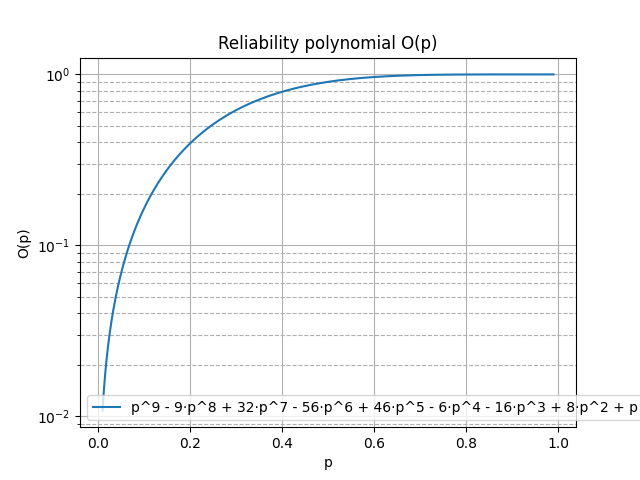
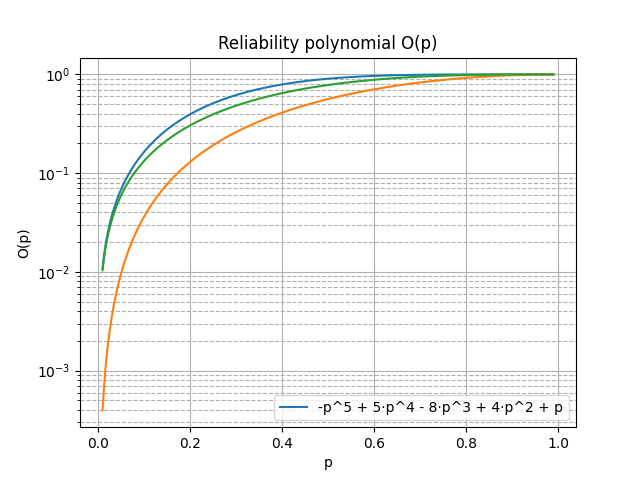
added multiple graph definition, WIP on graph drawing

diff --git a/main.py b/main.py
@@ -93,55 +93,6 @@ def find_all_minimum_cuts(graph, source, target, capacity_key):
     return all_minimum_cuts
 
 
-# CREATE THE GRAPH
-G = nx.MultiDiGraph(directed=True)
-
-# Nodes 
-G.add_node(1, subset='source')
-G.add_node(8, subset='target')
-s_node = 1 # source node
-t_node = 8 # target node
-
-G.add_node(2, subset='others')
-G.add_node(3, subset='others')
-G.add_node(4, subset='others')
-G.add_node(5, subset='others')
-G.add_node(6, subset='others')
-G.add_node(7, subset='others')
-
-# Edges 
-# G.add_edges_from([(1, 2, 0, {'capacity': "e1"}), (1, 2, 1, {'capacity': "e2"}), (2, 3, 0, {'capacity': "e3"}), (2, 3, 1, {'capacity': "e4"})])
-# G.add_edges_from([(1, 2, 0, {'capacity': "e1"}), (2, 3, 0, {'capacity': "e2"}), (2, 3, 1, {'capacity': "e3"})])
-# G.add_edges_from([(1, 2, 0, {'capacity': "e1"}), (2, 3, 0, {'capacity': "e2"})])
-# G.add_edges_from([(1, 2, 0, {'capacity': "e1"}), (2, 3, 0, {'capacity': "e5"}), (1, 4, 0, {'capacity': "e2"}), (4, 5, 0, {'capacity': "e3"}), (2, 5, 0, {'capacity': "e4"}), (5, 3, 0, {'capacity': "e6"})])
-# G.add_edges_from([(1, 2, 0, {'capacity': "a"}), (2, 3, 0, {'capacity': "b"}), (1, 3, 0, {'capacity': "c"}), (1, 4, 0, {'capacity': "d"}), (4, 3, 0, {'capacity': "f"})])
-# G.add_edges_from([(2, 1, 0, {'capacity': "a"}), (1, 3, 0, {'capacity': "b"}), (2, 4, 0, {'capacity': "c"}), (4, 3, 0, {'capacity': "d"}), (1, 4, 0, {'capacity': "f"})])
-G.add_edges_from([(1, 2, 0, {'capacity': "e1"}), (1, 3, 0, {'capacity': "e2"}), (2, 4, 0, {'capacity': "e3"}), (3, 4, 0, {'capacity': "e4"})])
-G.add_edges_from([(4, 5, 0, {'capacity': "e5"}), (5, 6, 0, {'capacity': "e6"}), (5, 7, 0, {'capacity': "e7"}), (6, 8, 0, {'capacity': "e8"}), (7, 8, 0, {'capacity': "e9"})])
-
-
-G1 = nx.MultiDiGraph(directed=True)
-
-# Nodes 
-G1.add_node(1, subset='source')
-G1.add_node(4, subset='target')
-s_node1 = 1 # source node
-t_node1 = 4 # target node
-
-G1.add_node(2, subset='others')
-G1.add_node(3, subset='others')
-
-# Edges 
-# G.add_edges_from([(1, 2, 0, {'capacity': "e1"}), (1, 2, 1, {'capacity': "e2"}), (2, 3, 0, {'capacity': "e3"}), (2, 3, 1, {'capacity': "e4"})])
-# G.add_edges_from([(1, 2, 0, {'capacity': "e1"}), (2, 3, 0, {'capacity': "e2"}), (2, 3, 1, {'capacity': "e3"})])
-# G.add_edges_from([(1, 2, 0, {'capacity': "e1"}), (2, 3, 0, {'capacity': "e2"})])
-# G.add_edges_from([(1, 2, 0, {'capacity': "e1"}), (2, 3, 0, {'capacity': "e5"}), (1, 4, 0, {'capacity': "e2"}), (4, 5, 0, {'capacity': "e3"}), (2, 5, 0, {'capacity': "e4"}), (5, 3, 0, {'capacity': "e6"})])
-# G.add_edges_from([(1, 2, 0, {'capacity': "a"}), (2, 3, 0, {'capacity': "b"}), (1, 3, 0, {'capacity': "c"}), (1, 4, 0, {'capacity': "d"}), (4, 3, 0, {'capacity': "f"})])
-# G.add_edges_from([(2, 1, 0, {'capacity': "a"}), (1, 3, 0, {'capacity': "b"}), (2, 4, 0, {'capacity': "c"}), (4, 3, 0, {'capacity': "d"}), (1, 4, 0, {'capacity': "f"})])
-G1.add_edges_from([(1, 2, 0, {'capacity': "e1"}), (1, 3, 0, {'capacity': "e2"}), (2, 4, 0, {'capacity': "e3"}), (3, 4, 0, {'capacity': "e4"})])
-G1.add_edges_from([(4, 5, 0, {'capacity': "e5"}), (5, 6, 0, {'capacity': "e6"}), (5, 7, 0, {'capacity': "e7"}), (6, 8, 0, {'capacity': "e8"}), (7, 8, 0, {'capacity': "e9"})])
-
-
 
 
 
@@ -221,11 +172,84 @@ def get_polynomial_expression(coefs, minimum_cut_size, number_of_edges) :
         # print(i)
     string_expanded_polynomial = ((str(sympy.expand(polynomial)).replace('x', 'p')).replace('**', '^')).replace('*', '·')
     return string_expanded_polynomial
+def multiply_two_lists(list1, list2) :
+    # Multiplying two lists
+    # of same length
+    res_list = []
+    for i in range(0, len(list1)):
+        res_list.append(list1[i] * list2[i])
+    return res_list
+    
+        
+# CREATE THE GRAPH
+G = nx.MultiDiGraph(directed=True)
 
+# Nodes 
+G.add_node(1, subset='source')
+G.add_node(8, subset='target')
+s_node = 1 # source node
+t_node = 8 # target node
+
+G.add_node(2, subset='others')
+G.add_node(3, subset='others')
+G.add_node(4, subset='others')
+G.add_node(5, subset='others')
+G.add_node(6, subset='others')
+G.add_node(7, subset='others')
+
+# Edges 
+# G.add_edges_from([(1, 2, 0, {'capacity': "e1"}), (1, 2, 1, {'capacity': "e2"}), (2, 3, 0, {'capacity': "e3"}), (2, 3, 1, {'capacity': "e4"})])
+# G.add_edges_from([(1, 2, 0, {'capacity': "e1"}), (2, 3, 0, {'capacity': "e2"}), (2, 3, 1, {'capacity': "e3"})])
+# G.add_edges_from([(1, 2, 0, {'capacity': "e1"}), (2, 3, 0, {'capacity': "e2"})])
+# G.add_edges_from([(1, 2, 0, {'capacity': "e1"}), (2, 3, 0, {'capacity': "e5"}), (1, 4, 0, {'capacity': "e2"}), (4, 5, 0, {'capacity': "e3"}), (2, 5, 0, {'capacity': "e4"}), (5, 3, 0, {'capacity': "e6"})])
+# G.add_edges_from([(1, 2, 0, {'capacity': "a"}), (2, 3, 0, {'capacity': "b"}), (1, 3, 0, {'capacity': "c"}), (1, 4, 0, {'capacity': "d"}), (4, 3, 0, {'capacity': "f"})])
+# G.add_edges_from([(2, 1, 0, {'capacity': "a"}), (1, 3, 0, {'capacity': "b"}), (2, 4, 0, {'capacity': "c"}), (4, 3, 0, {'capacity': "d"}), (1, 4, 0, {'capacity': "f"})])
+G.add_edges_from([(1, 2, 0, {'capacity': "e1"}), (1, 3, 0, {'capacity': "e2"}), (2, 4, 0, {'capacity': "e3"}), (3, 4, 0, {'capacity': "e4"})])
+G.add_edges_from([(4, 5, 0, {'capacity': "e5"}), (5, 6, 0, {'capacity': "e6"}), (5, 7, 0, {'capacity': "e7"}), (6, 8, 0, {'capacity': "e8"}), (7, 8, 0, {'capacity': "e9"})])
+
+
+G1 = nx.MultiDiGraph(directed=True)
+# Nodes 
+G1.add_node(1, subset='source')
+G1.add_node(4, subset='target')
+s_node1 = 1 # source node
+t_node1 = 4 # target node
+G1.add_node(2, subset='others')
+G1.add_node(3, subset='others')
+# Edges 
+# G.add_edges_from([(1, 2, 0, {'capacity': "e1"}), (1, 2, 1, {'capacity': "e2"}), (2, 3, 0, {'capacity': "e3"}), (2, 3, 1, {'capacity': "e4"})])
+# G.add_edges_from([(1, 2, 0, {'capacity': "e1"}), (2, 3, 0, {'capacity': "e2"}), (2, 3, 1, {'capacity': "e3"})])
+# G.add_edges_from([(1, 2, 0, {'capacity': "e1"}), (2, 3, 0, {'capacity': "e2"})])
+# G.add_edges_from([(1, 2, 0, {'capacity': "e1"}), (2, 3, 0, {'capacity': "e5"}), (1, 4, 0, {'capacity': "e2"}), (4, 5, 0, {'capacity': "e3"}), (2, 5, 0, {'capacity': "e4"}), (5, 3, 0, {'capacity': "e6"})])
+# G.add_edges_from([(1, 2, 0, {'capacity': "a"}), (2, 3, 0, {'capacity': "b"}), (1, 3, 0, {'capacity': "c"}), (1, 4, 0, {'capacity': "d"}), (4, 3, 0, {'capacity': "f"})])
+# G.add_edges_from([(2, 1, 0, {'capacity': "a"}), (1, 3, 0, {'capacity': "b"}), (2, 4, 0, {'capacity': "c"}), (4, 3, 0, {'capacity': "d"}), (1, 4, 0, {'capacity': "f"})])
+G1.add_edges_from([(1, 2, 0, {'capacity': "e1"}), (1, 3, 0, {'capacity': "e2"}), (2, 4, 0, {'capacity': "e3"}), (3, 4, 0, {'capacity': "e4"})])
+# G1.add_edges_from([(4, 5, 0, {'capacity': "e5"}), (5, 6, 0, {'capacity': "e6"}), (5, 7, 0, {'capacity': "e7"}), (6, 8, 0, {'capacity': "e8"}), (7, 8, 0, {'capacity': "e9"})])
+
+
+G2 = nx.MultiDiGraph(directed=True)
+# Nodes 
+G2.add_node(4, subset='source')
+G2.add_node(8, subset='target')
+s_node2 = 4 # source node
+t_node2 = 8 # target node
+G2.add_node(5, subset='others')
+G2.add_node(6, subset='others')
+G2.add_node(7, subset='others')
+# Edges 
+# G.add_edges_from([(1, 2, 0, {'capacity': "e1"}), (1, 2, 1, {'capacity': "e2"}), (2, 3, 0, {'capacity': "e3"}), (2, 3, 1, {'capacity': "e4"})])
+# G.add_edges_from([(1, 2, 0, {'capacity': "e1"}), (2, 3, 0, {'capacity': "e2"}), (2, 3, 1, {'capacity': "e3"})])
+# G.add_edges_from([(1, 2, 0, {'capacity': "e1"}), (2, 3, 0, {'capacity': "e2"})])
+# G.add_edges_from([(1, 2, 0, {'capacity': "e1"}), (2, 3, 0, {'capacity': "e5"}), (1, 4, 0, {'capacity': "e2"}), (4, 5, 0, {'capacity': "e3"}), (2, 5, 0, {'capacity': "e4"}), (5, 3, 0, {'capacity': "e6"})])
+# G.add_edges_from([(1, 2, 0, {'capacity': "a"}), (2, 3, 0, {'capacity': "b"}), (1, 3, 0, {'capacity': "c"}), (1, 4, 0, {'capacity': "d"}), (4, 3, 0, {'capacity': "f"})])
+# G.add_edges_from([(2, 1, 0, {'capacity': "a"}), (1, 3, 0, {'capacity': "b"}), (2, 4, 0, {'capacity': "c"}), (4, 3, 0, {'capacity': "d"}), (1, 4, 0, {'capacity': "f"})])
+# G2.add_edges_from([(1, 2, 0, {'capacity': "e1"}), (1, 3, 0, {'capacity': "e2"}), (2, 4, 0, {'capacity': "e3"}), (3, 4, 0, {'capacity': "e4"})])
+G2.add_edges_from([(4, 5, 0, {'capacity': "e5"}), (5, 6, 0, {'capacity': "e6"}), (5, 7, 0, {'capacity': "e7"}), (6, 8, 0, {'capacity': "e8"}), (7, 8, 0, {'capacity': "e9"})])
+
+#### GRAPH 0
 ### CALL TO CUSTOM FLOW COMPUTING FUNCTION
 # Find all minimum edge cuts in the graph
 all_min_cuts = find_all_minimum_cuts(G, source=s_node, target=t_node, capacity_key='capacity')
-all_min_cuts1 = find_all_minimum_cuts(G1, source=s_node1, target=t_node1, capacity_key='capacity')
 
 ### EVALUATING K, L, AND M (collection of cut-sets, minimal cut-sets and minimum cut-sets)
 K, L, M = get_collection(all_min_cuts)
@@ -237,63 +261,93 @@ p = numpy.linspace(0.01, 0.99, num=1000)
 O_p, UpperB = OutagePolynomial.eval(p, minimum_cut_size, number_of_edges, coefs)
 OutagePolynomial.plot(p, O_p, UpperB, string_expanded_polynomial)
 
+#### GRAPH 1
+# Find all minimum edge cuts in the graph
+all_min_cuts1 = find_all_minimum_cuts(G1, source=s_node1, target=t_node1, capacity_key='capacity')
+
+### EVALUATING K, L, AND M (collection of cut-sets, minimal cut-sets and minimum cut-sets)
+K1, L1, M1 = get_collection(all_min_cuts1)
+display_collection("G1", K1, L1, M1)
+number_of_edges1, minimum_cut_size1 = get_n_m_values(G1, M1)
+coefs1 = find_coefs(K1)
+string_expanded_polynomial1 = get_polynomial_expression(coefs1, minimum_cut_size1, number_of_edges1)
+p1 = numpy.linspace(0.01, 0.99, num=1000)
+O_p1, UpperB1 = OutagePolynomial.eval(p1, minimum_cut_size1, number_of_edges1, coefs1)
+OutagePolynomial.plot(p1, O_p1, UpperB1, string_expanded_polynomial1)
+
+
+#### GRAPH 2
+# Find all minimum edge cuts in the graph
+all_min_cuts2 = find_all_minimum_cuts(G2, source=s_node2, target=t_node2, capacity_key='capacity')
+
+### EVALUATING K, L, AND M (collection of cut-sets, minimal cut-sets and minimum cut-sets)
+K2, L2, M2 = get_collection(all_min_cuts2)
+display_collection("G2", K2, L2, M2)
+number_of_edges2, minimum_cut_size2 = get_n_m_values(G2, M2)
+coefs2 = find_coefs(K2)
+string_expanded_polynomial2 = get_polynomial_expression(coefs2, minimum_cut_size2, number_of_edges2)
+p2 = numpy.linspace(0.01, 0.99, num=1000)
+O_p2, UpperB2 = OutagePolynomial.eval(p2, minimum_cut_size2, number_of_edges2, coefs2)
+OutagePolynomial.plot(p2, O_p2, UpperB2, string_expanded_polynomial2)
+
+
 ##################################################
 
 
 ######################################################### DRAWING THE GRAPH ################################################
 
-
-# Draw and save the graph
-plt.figure(figsize=(8, 6))  # Adjust the figure size as per your preference
- 
-# pos = nx.multipartite_layout(G, subset_key='subset', align='horizontal')  # Use multipartite_layout for automatic separation of parallel edges
-# offset = 0.05  # Adjust this value to control the separation of parallel edges
-pos = nx.planar_layout(G)
-
-# # Get the edge labels
-# edge_labels = {(u, v, key): G[u][v][key]['capacity'] for u, v, key in G.edges(keys=True)}
-
-# Draw edge labels
-
-# for u, v, key in G.edges(keys=True):
-#     x1, y1 = pos[u]
-#     x2, y2 = pos[v]
-#     capacity = G[u][v][key]['capacity']
-#     plt.text((x1 + x2) / 2, (y1 + y2) / 2, f"{capacity}", horizontalalignment='center', verticalalignment='center', fontsize=10)
-
-#     x_arr, y_arr = x2, y2
-#     plt.arrow(x1, y1, x_arr - x1, y_arr - y1, color='black', width=0.005, head_width=0.03, head_length=0.03)  # Adjust the width parameter
-
-# Draw nodes
-nx.draw_networkx_nodes(G, pos, node_color='c', node_size=100, alpha=1)
-
-# Draw edges as separate curves
-for u, v, key in G.edges(keys=True):
-    connection_style = "arc3,rad=" + str(0.3 * key)
-    plt.annotate("",
-                 xy=pos[u], xycoords='data',  # Source node
-                 xytext=pos[v], textcoords='data',  # Target node
-                 arrowprops=dict(arrowstyle="->", color="0.5",
-                                 shrinkA=5, shrinkB=5,
-                                 patchA=None, patchB=None,
-                                 connectionstyle=connection_style),
-                 )
-
+def draw_graph(G) :
+    # Draw and save the graph
+    plt.figure(figsize=(8, 6))  # Adjust the figure size as per your preference
     
-# # Draw nodes and labels
-# nx.draw(G, pos, with_labels=True, font_weight='bold')
+    # pos = nx.multipartite_layout(G, subset_key='subset', align='horizontal')  # Use multipartite_layout for automatic separation of parallel edges
+    # offset = 0.05  # Adjust this value to control the separation of parallel edges
+    pos = nx.planar_layout(G)
 
-# Draw node labels
-node_labels = {n: n for n in G.nodes}
-nx.draw_networkx_labels(G, pos, labels=node_labels)
+    # # Get the edge labels
+    # edge_labels = {(u, v, key): G[u][v][key]['capacity'] for u, v, key in G.edges(keys=True)}
 
-# Turn off axis
-plt.axis('off')
+    # Draw edge labels
 
-# Save the file and show the figure 
-plt.savefig("path.png")
-# plt.show()
+    # for u, v, key in G.edges(keys=True):
+    #     x1, y1 = pos[u]
+    #     x2, y2 = pos[v]
+    #     capacity = G[u][v][key]['capacity']
+    #     plt.text((x1 + x2) / 2, (y1 + y2) / 2, f"{capacity}", horizontalalignment='center', verticalalignment='center', fontsize=10)
 
+    #     x_arr, y_arr = x2, y2
+    #     plt.arrow(x1, y1, x_arr - x1, y_arr - y1, color='black', width=0.005, head_width=0.03, head_length=0.03)  # Adjust the width parameter
+
+    # Draw nodes
+    nx.draw_networkx_nodes(G, pos, node_color='c', node_size=100, alpha=1)
+
+    # Draw edges as separate curves
+    for u, v, key in G.edges(keys=True):
+        connection_style = "arc3,rad=" + str(0.3 * key)
+        plt.annotate("",
+                    xy=pos[u], xycoords='data',  # Source node
+                    xytext=pos[v], textcoords='data',  # Target node
+                    arrowprops=dict(arrowstyle="->", color="0.5",
+                                    shrinkA=5, shrinkB=5,
+                                    patchA=None, patchB=None,
+                                    connectionstyle=connection_style),
+                    )
+
+        
+    # # Draw nodes and labels
+    # nx.draw(G, pos, with_labels=True, font_weight='bold')
+
+    # Draw node labels
+    node_labels = {n: n for n in G.nodes}
+    nx.draw_networkx_labels(G, pos, labels=node_labels)
+
+    # Turn off axis
+    plt.axis('off')
+
+    # Save the file and show the figure 
+    plt.savefig("path.png")
+    # plt.show()
+draw_graph(G)
 
 
 
